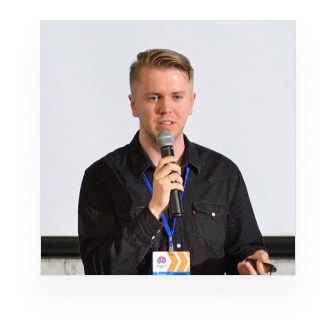
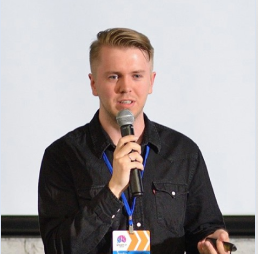
рефакторинг 30.06.2022 9:10

diff --git a/index.html b/index.html
@@ -18,8 +18,9 @@
                         <h4 class="special-project__heading">Спецпроект</h4>
                         <img src="assets/img/pageIcons/fire.jpg" alt="fire" class="fire-img">
                     </div>
-                    <h1 class="ready-title">Готовы ли вы
-                        к разработке продукта?</h1>
+                    <h1 class="ready-title">
+                        Готовы ли вы <span>к разработке продукта?</span>
+                    </h1>
                     <p class="knowledge-level">
                         Определите свой уровень знаний в продуктовой разработке и бесплатно получите рекомендации от экспертов рынка
                     </p>
@@ -40,22 +41,20 @@
         </div>
     </header>
     <section class="our-partners">
-        <div class="container">
-            <div class="general-partners">
-                <h3>Генеральные партнеры</h3>
-                <div class="general-partners-image-wrapper justify-center">
-                    <img src="assets/img/ourPartners/cossa.png" alt="cossa" class="cossa">
-                    <img src="assets/img/ourPartners/ruward.png" alt="ruward" class="ruward">
-                </div>
+        <div class="general-partners">
+            <h3>Генеральные партнеры</h3>
+            <div class="general-partners-image-wrapper justify-center">
+                <img src="assets/img/ourPartners/cossa.png" alt="cossa" class="cossa">
+                <img src="assets/img/ourPartners/ruward.png" alt="ruward" class="ruward">
             </div>
-            <div class="info-partners">
-                <h3>Информационные партнеры</h3>
-                <div class="info-partners-image-wrapper">
-                    <img src="assets/img/ourPartners/biz360.png" alt="biz360" class="biz360">
-                    <img src="assets/img/ourPartners/cmsMagazine.png" alt="cms-magazine" class="cms-magazine">
-                    <img src="assets/img/ourPartners/arda.png" alt="arda" class="arda">
-                    <img src="assets/img/ourPartners/rusbase.png" alt="rusbase" class="rusbase">
-                </div>
+        </div>
+        <div class="info-partners">
+            <h3>Информационные партнеры</h3>
+            <div class="info-partners-image-wrapper">
+                <img src="assets/img/ourPartners/biz360.png" alt="biz360" class="biz360">
+                <img src="assets/img/ourPartners/cmsMagazine.png" alt="cms-magazine" class="cms-magazine">
+                <img src="assets/img/ourPartners/arda.png" alt="arda" class="arda">
+                <img src="assets/img/ourPartners/rusbase.png" alt="rusbase" class="rusbase">
             </div>
         </div>
     </section>
@@ -127,78 +126,67 @@
             <p class="test-description">Тест не получился бы таким полезным, если бы не представители продуктовых и не только компаний, принявших участие в спецпроекте. Знакомьтесь:</p>
             <ul class="experts-list">
                 <li class="expert">
-                    <div class="expert-img-wrapper glebKudriavtsev">
-                    </div>
+                    <img class="expert-img glebKudriavtsev" src="assets/img/experts/man.png" alt="Глеб Кудрявцев"/>
                     <h5 class="expert-name">Глеб Кудрявцев</h5>
                     <span class="position">Руководитель продуктов</span>
                     <span class="company">Skyeng</span>
                 </li>
                 <li class="expert">
-                    <div class="expert-img-wrapper tatianaGrokhotovskaya">
-                    </div>
+                    <img class="expert-img tatianaGrokhotovskaya" src="assets/img/experts/woman.png" alt="Татьяна Гороховская"/>
                     <h5 class="expert-name">Татьяна Гороховская</h5>
                     <span class="position">Ментор</span>
                     <span class="company">Russol — онлайн-школа стартапов</span>
                 </li>
                 <li class="expert">
-                    <div class="expert-img-wrapper marinaArefieva">
-                    </div>
+                    <img class="expert-img marinaArefieva" src="assets/img/experts/woman.png" alt="Марина Арефьева"/>
                     <h5 class="expert-name">Марина Арефьева</h5>
                     <span class="position">Сооснователь</span>
                     <span class="company">Creative Mind Consulting</span>
                 </li>
                 <li class="expert">
-                    <div class="expert-img-wrapper ivanJigan">
-                    </div>
+                    <img class="expert-img ivanJugan" src="assets/img/experts/iJugan.png" alt="Иван Жуган"/>
                     <h5 class="expert-name">Иван Жуган</h5>
                     <span class="position">Product Manager</span>
                     <span class="company">Яндекс Практикум</span>
                 </li>
                 <li class="expert">
-                    <div class="expert-img-wrapper evgenyShvaikovsky">
-                    </div>
+                    <img class="expert-img evgenyShvaikovsky" src="assets/img/experts/man.png" alt="Евгений Швайковский"/>
                     <h5 class="expert-name">Евгений Швайковский</h5>
                     <span class="position">Product Manager</span>
                     <span class="company">Okko</span>
                 </li>
                 <li class="expert">
-                    <div class="expert-img-wrapper vyacheslavKuznetsov">
-                    </div>
+                    <img class="expert-img vyacheslavKuznetsov" src="assets/img/experts/man.png" alt="Вячеслав Кузнецов"/>
                     <h5 class="expert-name">Вячеслав Кузнецов</h5>
                     <span class="position">Руководитель продукта</span>
                     <span class="company">Healbe</span>
                 </li>
                 <li class="expert">
-                    <div class="expert-img-wrapper vladislavPrischepov">
-                    </div>
+                    <img class="expert-img vladislavPrischepov" src="assets/img/experts/vPrischepov.png" alt="Владислав Прищепов"/>
                     <h5 class="expert-name">Владислав Прищепов</h5>
                     <span class="position">Product Manager</span>
                     <span class="company">Delivery Club</span>
                 </li>
                 <li class="expert">
-                    <div class="expert-img-wrapper andreyHasnutdinov">
-                    </div>
+                    <img class="expert-img andreyHasnutdinov" src="assets/img/experts/aHosnutdinov.png" alt="Андрей Хаснутдинов"/>
                     <h5 class="expert-name">Андрей Хаснутдинов</h5>
                     <span class="position">Head of product manager</span>
                     <span class="company">Nero Electronics</span>
                 </li>
                 <li class="expert">
-                    <div class="expert-img-wrapper aleksandrSheshotov">
-                    </div>
+                    <img class="expert-img aleksandrSheshotov" src="assets/img/experts/aSheshotov.png" alt="Александр Шешотов"/>
                     <h5 class="expert-name">Александр Шешотов</h5>
                     <span class="position">Руководитель направления «Мобильная разработка»</span>
                     <span class="company">*Название скрыто*</span>
                 </li>
                 <li class="expert">
-                    <div class="expert-img-wrapper aleksandrKorjanov">
-                    </div>
+                    <img class="expert-img aleksandrKorjanov" src="assets/img/experts/aKorjanov.png" alt="Александр Коржанов"/>
                     <h5 class="expert-name">Александр Коржанов</h5>
                     <span class="position">Сооснователь</span>
                     <span class="company">Conspirate Quests, PR Motion</span>
                 </li>
                 <li class="expert">
-                    <div class="expert-img-wrapper artemSalutin">
-                    </div>
+                    <img class="expert-img artemSalutin" src="assets/img/experts/aSalutin.png" alt="Артём Салютин"/>
                     <h5 class="expert-name">Артем Салютин</h5>
                     <span class="position">Руководитель проектов</span>
                     <span class="company blue-text">Work Solutions</span>
@@ -206,8 +194,7 @@
             </ul>
             <article class="main-expert">
                 <div class="general-info">
-                    <div class="general-img-wrapper">
-                    </div>
+                    <img class="general-img" src="assets/img/experts/mMul.png" alt="Максим Мул"/>
                     <h5 class="expert-name">Максим Мул</h5>
                     <span class="position">CEO</span>
                     <span class="company blue-text">Work Solutions</span>

diff --git a/styles/sections/expertSection.css b/styles/sections/expertSection.css
@@ -27,27 +27,17 @@
     margin-bottom: 96px;
 }
 
-.expert-img-wrapper, .general-img-wrapper {
-    background: #FFFFFF;
+.expert-img, .general-img {
+    display: block;
+    width: 196px;
+    height: 196px;
     border: 1px solid #DBE3F0;
     box-shadow: 0px 20px 40px rgba(0, 0, 0, 0.06);
     border-radius: 56px;
-    overflow: hidden;
-    width: 196px;
-    height: 196px;
-    display: flex;
-    justify-content: center;
-    align-items: center;
     margin-bottom: 24px;
+    object-fit: cover;
 }
 
-.general-img-wrapper {
-    width: 152px;
-    height: 152px;
-    background-image: url("../../assets/img/experts/mMul.png");
-    background-position: center;
-    background-size: cover;
-}
 .expert {
     display: flex;
     flex-direction: column;
@@ -142,82 +132,55 @@
     right: 32px;
 }
 
+.general-img {
+    width: 152px;
+    height: 152px;
+}
+
 .glebKudriavtsev {
-    background-image: url("../../assets/img/experts/man.png");
-    background-position: center;
-    background-size: contain;
-    background-repeat: no-repeat;
+
 }
 
 .tatianaGrokhotovskaya {
-    background-image: url("../../assets/img/experts/woman.png");
-    background-position: 50% 25%;
-    background-size: 150%;
-    background-repeat: no-repeat;
+
 }
 
 .marinaArefieva {
-    background-image: url("../../assets/img/experts/woman.png");
-    background-position: 50% 25%;
-    background-size: 150%;
-    background-repeat: no-repeat;
+
 }
 
-.ivanJigan {
-    background-image: url("../../assets/img/experts/iJugan.png");
-    background-position: 50% 25%;
-    background-size: 132%;
-    background-repeat: no-repeat;
+.ivanJugan {
+
 }
 
 .evgenyShvaikovsky {
-    background-image: url("../../assets/img/experts/man.png");
-    background-position: center;
-    background-size: contain;
-    background-repeat: no-repeat;
+
 }
 
 .vyacheslavKuznetsov {
-    background-image: url("../../assets/img/experts/man.png");
-    background-position: center;
-    background-size: contain;
-    background-repeat: no-repeat;
+
 }
 
 .vladislavPrischepov {
-    background-image: url("../../assets/img/experts/vPrischepov.png");
-    background-repeat: no-repeat;
-    background-size: 132%;
-    background-position: 50% 25%;
+
 }
 
 .andreyHasnutdinov {
-    background-image: url("../../assets/img/experts/aHosnutdinov.png");
-    background-position: 50% 25%;
-    background-size: 132%;
-    background-repeat: no-repeat;
+
 }
 
 .aleksandrSheshotov {
-    background-image: url("../../assets/img/experts/aSheshotov.png");
-    background-position: 50% 25%;
-    background-size: 132%;
-    background-repeat: no-repeat;
+
 }
 
 .aleksandrKorjanov {
-    background-image: url("../../assets/img/experts/aKorjanov.png");
-    background-position: 50% 25%;
-    background-size: 132%;
-    background-repeat: no-repeat;
+
 }
 
 .artemSalutin {
-    background-image: url("../../assets/img/experts/aSalutin.png");
-    background-position: 50% 25%;
-    background-size: 132%;
-    background-repeat: no-repeat;
 }
+
+
 
 
 

diff --git a/styles/styles.css b/styles/styles.css
@@ -100,7 +100,7 @@ header, main, footer {
         padding: 0 8px;
     }
 
-    .expert-img-wrapper {
+    .expert-img {
        width: 131px;
        height: 131px;
        border-radius: 42px;
@@ -131,6 +131,13 @@ header, main, footer {
     .pain-footer {
         margin: 0 74px 0 74px;
     }
+}
+
+@media (max-width: 979px) {
+    .ready-title span {
+        display: block;
+    }
+
 }
 
 @media (max-width: 979px) and (min-width: 768px) {
@@ -198,6 +205,10 @@ header, main, footer {
 
     .our-partners {
         margin-top: 0;
+    }
+
+    .general-partners {
+        margin-bottom: 60px;
     }
 
     .our-partners .image-wrapper {
@@ -586,13 +597,13 @@ header, main, footer {
         overflow: scroll;
     }
 
-    .expert-img-wrapper {
+    .expert-img {
         width: 140px;
         height: 140px;
     }
 
-    .expert-img-wrapper:first-child,
-    .expert-img-wrapper:last-child {
+    .expert-img:first-child,
+    .expert-img:last-child {
         margin-left: 18px;
     }
 
@@ -608,7 +619,7 @@ header, main, footer {
         gap: 24px;
     }
 
-    .general-img-wrapper {
+    .general-img {
         border-radius: 38px;
         width: 140px;
         height: 140px;

diff --git a/styles/sections/ourPartners.css b/styles/sections/ourPartners.css
@@ -1,5 +1,11 @@
 .our-partners {
     margin-bottom: 146px;
+    display: flex;
+    flex-flow: column nowrap;
+    justify-content: center;
+    max-width: 954px;
+    margin-left: auto;
+    margin-right: auto;
 }
 
 .our-partners h3 {

diff --git a/styles/sections/header.css b/styles/sections/header.css
@@ -26,8 +26,7 @@ header {
 }
 
 .ready-title {
-    display: flex;
-    align-items: center;
+    margin: 0 auto;
     width: 300px;
     margin-bottom: 24px;
     height: 192px;

diff --git a/styles/sections/footer.css b/styles/sections/footer.css
@@ -32,7 +32,7 @@ footer h5 {
     width: 102px;
     height: 74px;
     position: absolute;
-    bottom: 0;
+    bottom: 80px;
     right: 0;
 }
 
